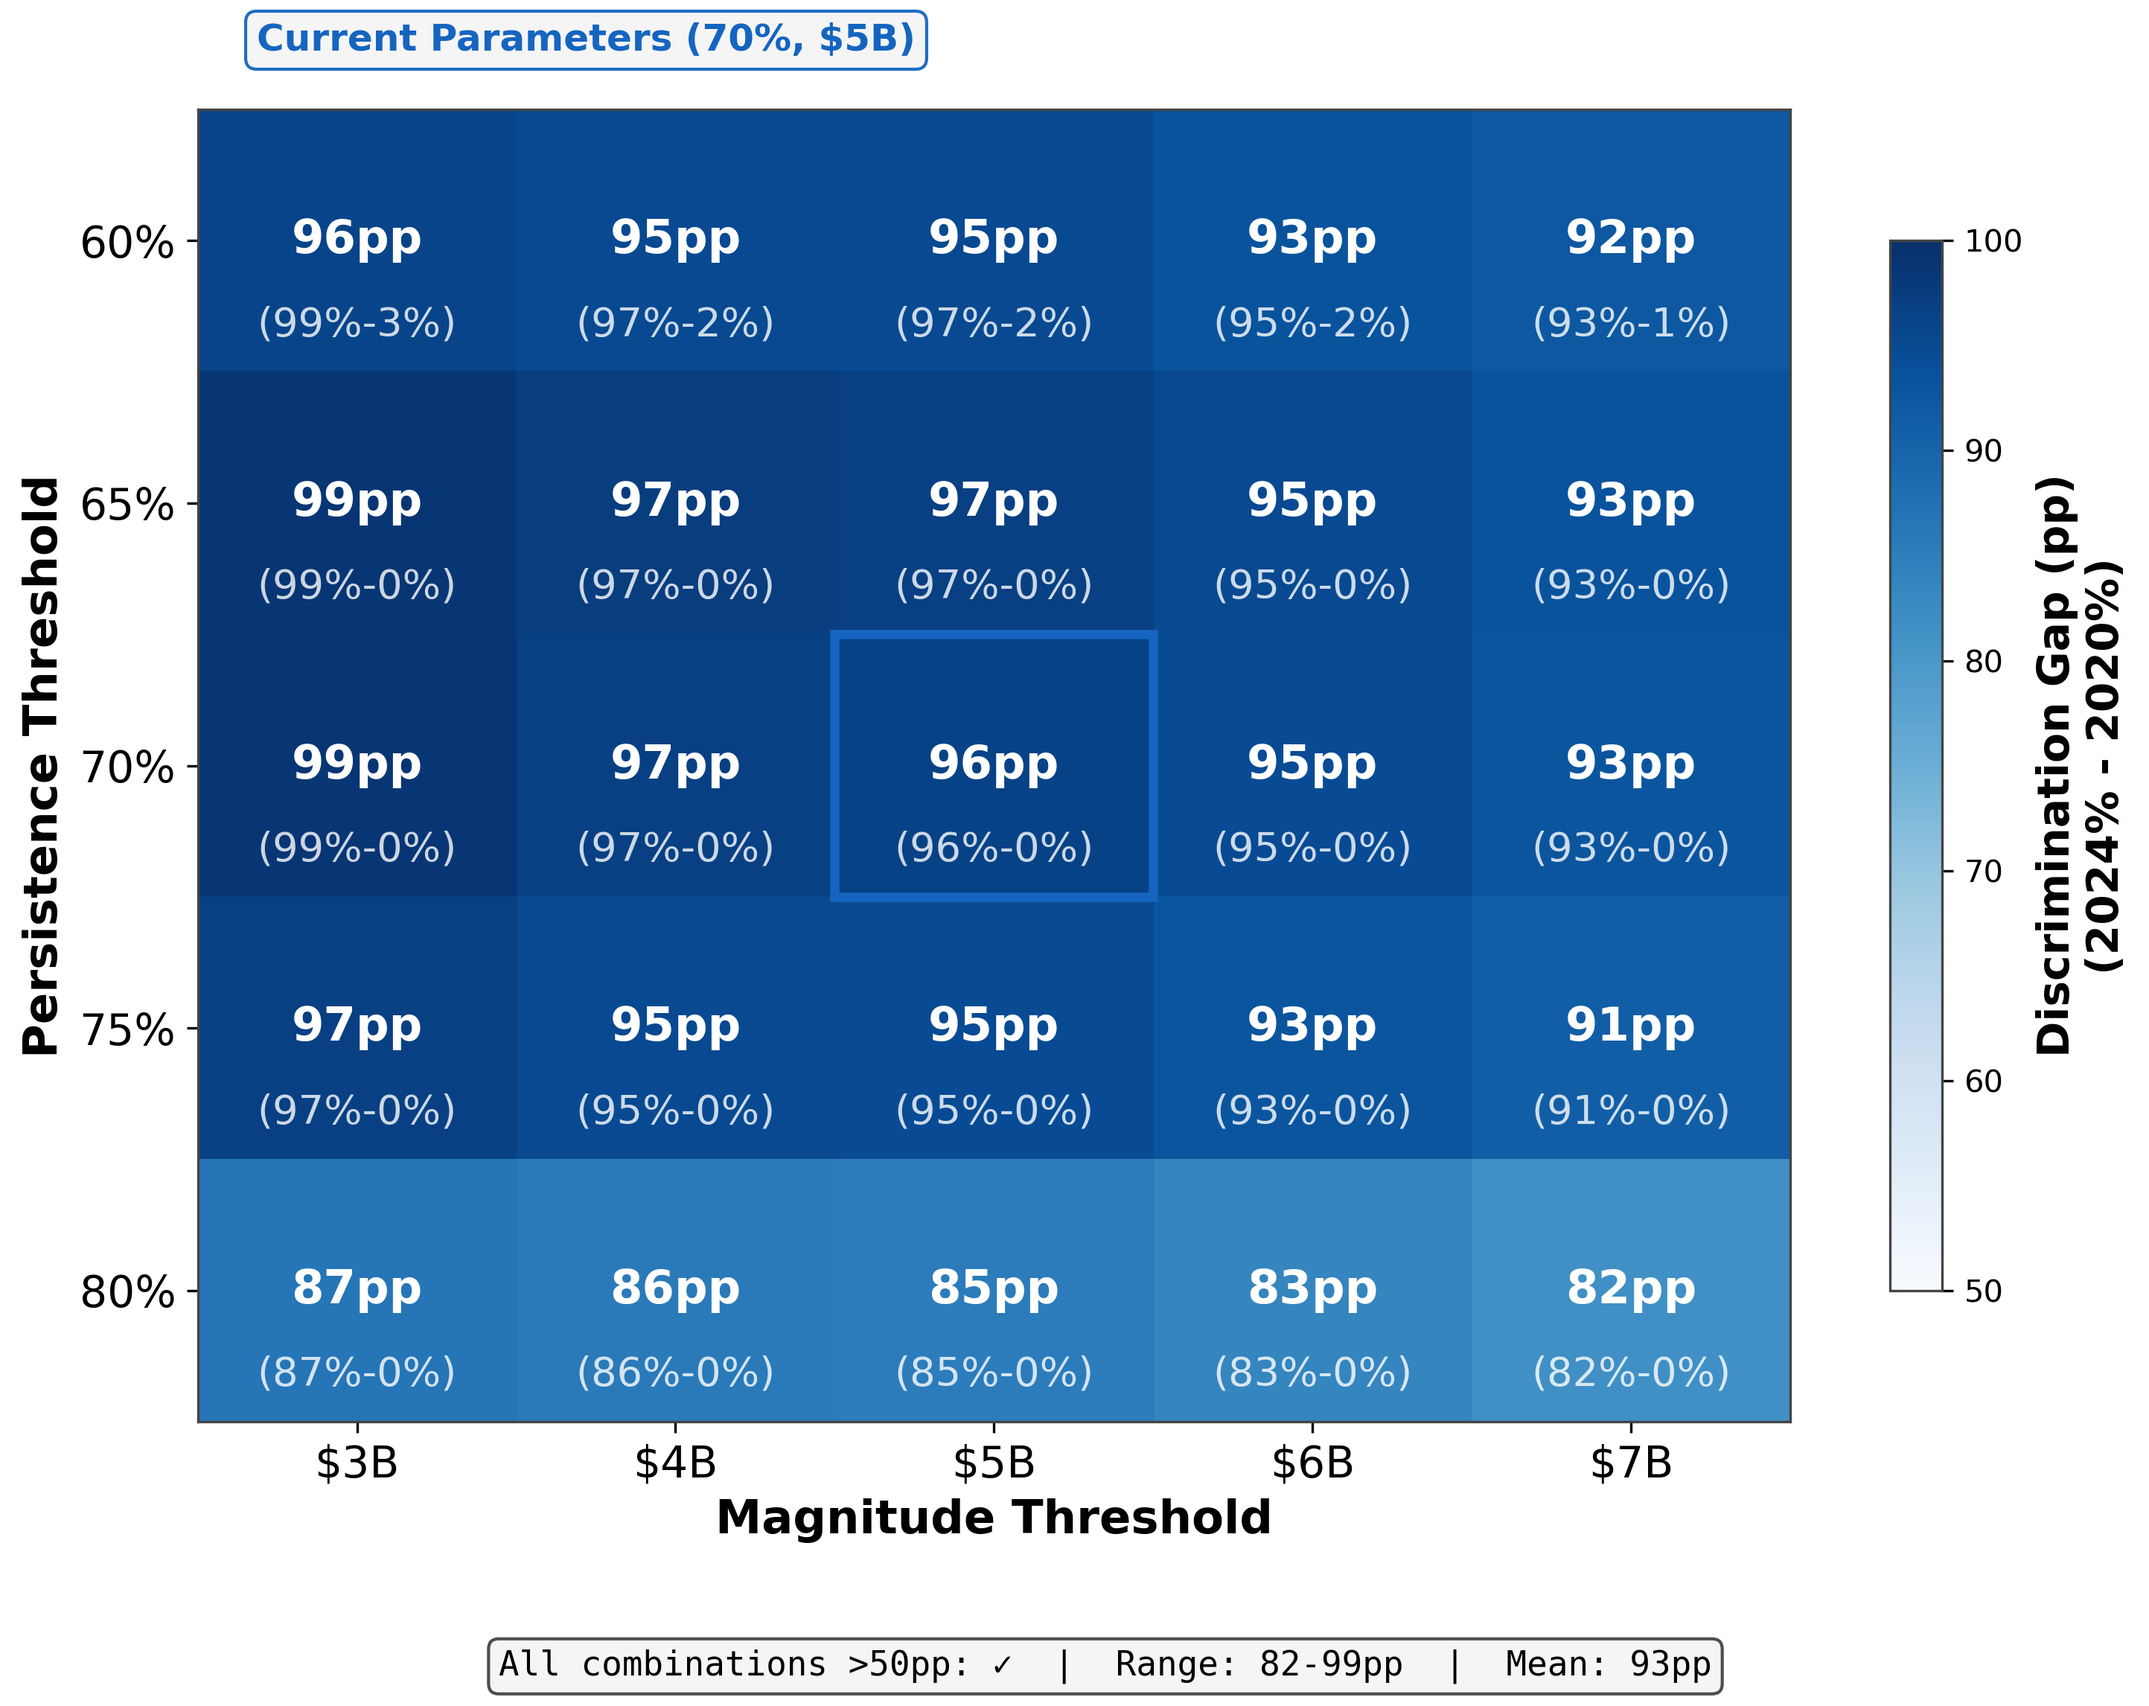
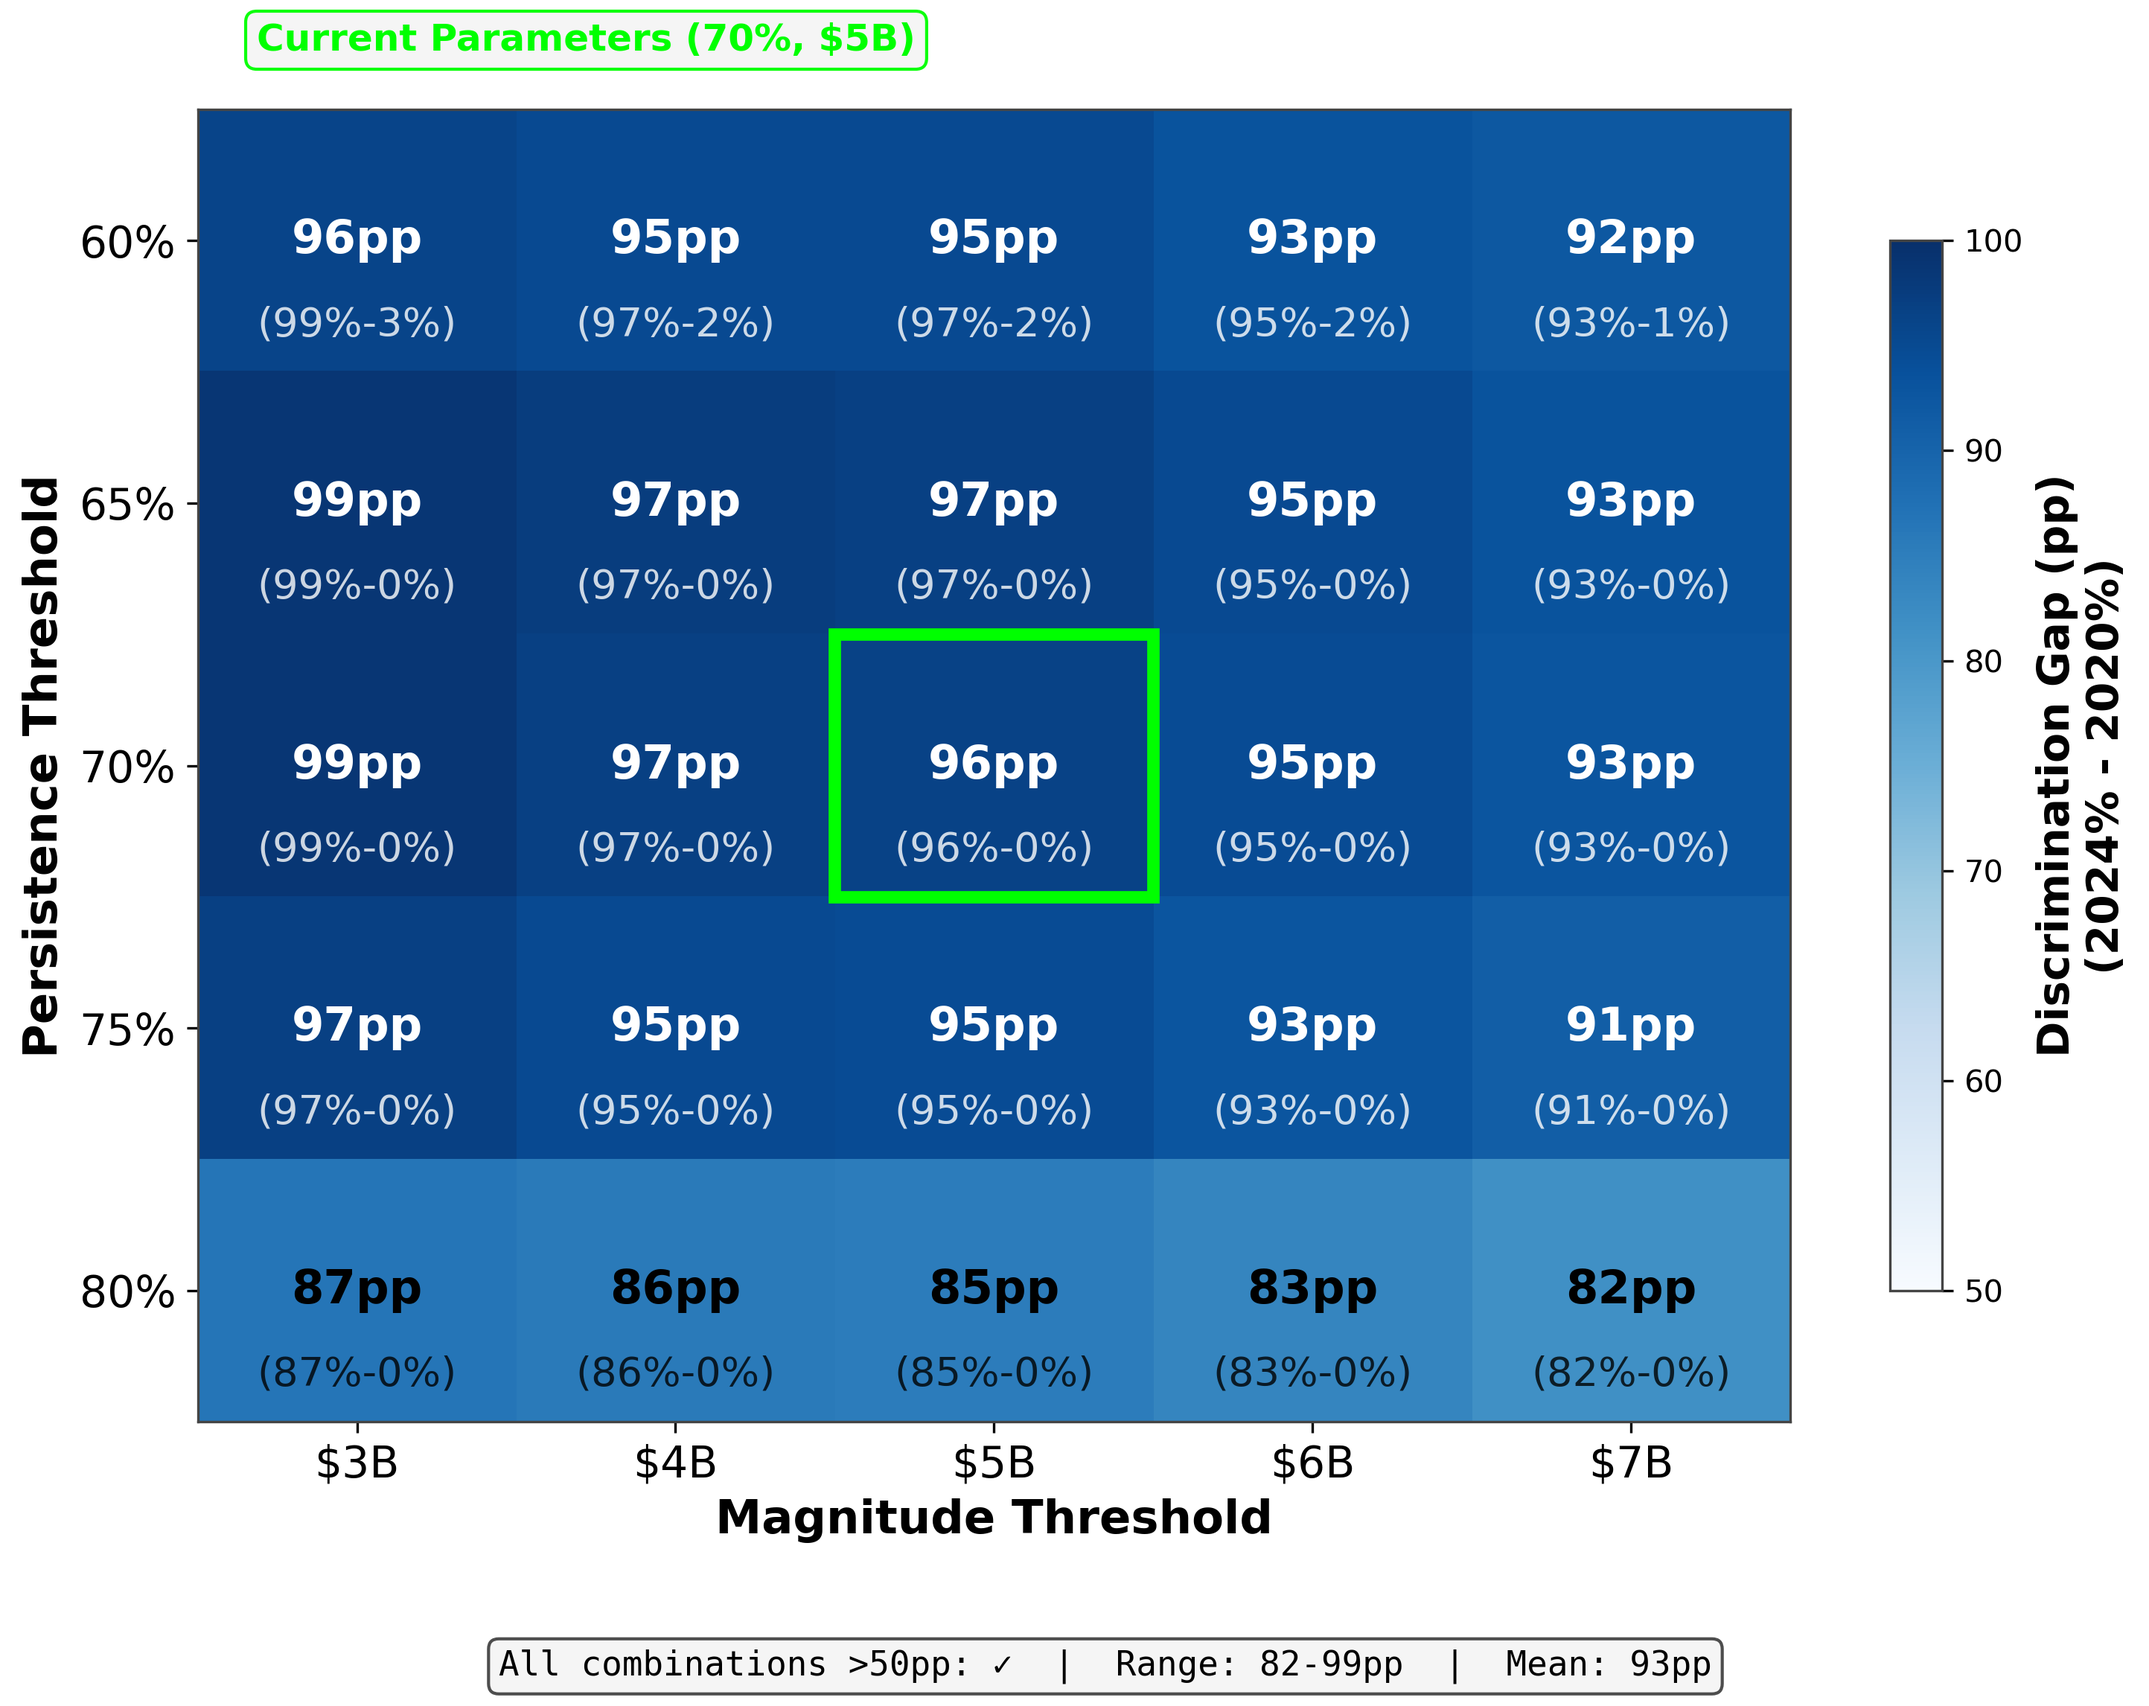
fix(paper2): Improve heatmap contrast and highlight current parameters

diff --git a/docs/papers/paper2/figures/scripts/fig11_threshold_sensitivity_heatmap.py b/docs/papers/paper2/figures/scripts/fig11_threshold_sensitivity_heatmap.py
@@ -160,7 +160,7 @@ def create_figure(data):
             r2024 = rates_2024[i, j]
 
             # Use white text on dark cells (high gap), black text on light cells (low gap)
-            text_color = "white" if gap > 75 else "black"
+            text_color = "white" if gap >= 90 else "black"
 
             # Main gap value
             ax.text(j, i, f"{gap:.0f}pp", ha="center", va="center", fontsize=15, fontweight="bold", color=text_color)
@@ -182,9 +182,7 @@ def create_figure(data):
     current_j = MAGNITUDE_THRESHOLDS.index(CURRENT_MAGNITUDE)
 
     # Draw rectangle around current parameters with cyan border (no star marker)
-    rect = plt.Rectangle(
-        (current_j - 0.5, current_i - 0.5), 1, 1, fill=False, edgecolor=IEEE_THEME["accent_neutral"], linewidth=3
-    )
+    rect = plt.Rectangle((current_j - 0.5, current_i - 0.5), 1, 1, fill=False, edgecolor="#00FF00", linewidth=4)
     ax.add_patch(rect)
 
     # Calculate statistics for legends
@@ -207,11 +205,11 @@ def create_figure(data):
         fontsize=12,
         fontweight="bold",
         verticalalignment="top",
-        color=IEEE_THEME["accent_neutral"],
+        color="#00FF00",
         bbox=dict(
             boxstyle="round,pad=0.3",
             facecolor=IEEE_THEME["panel_bg"],
-            edgecolor=IEEE_THEME["accent_neutral"],
+            edgecolor="#00FF00",
             alpha=0.95,
         ),
     )
